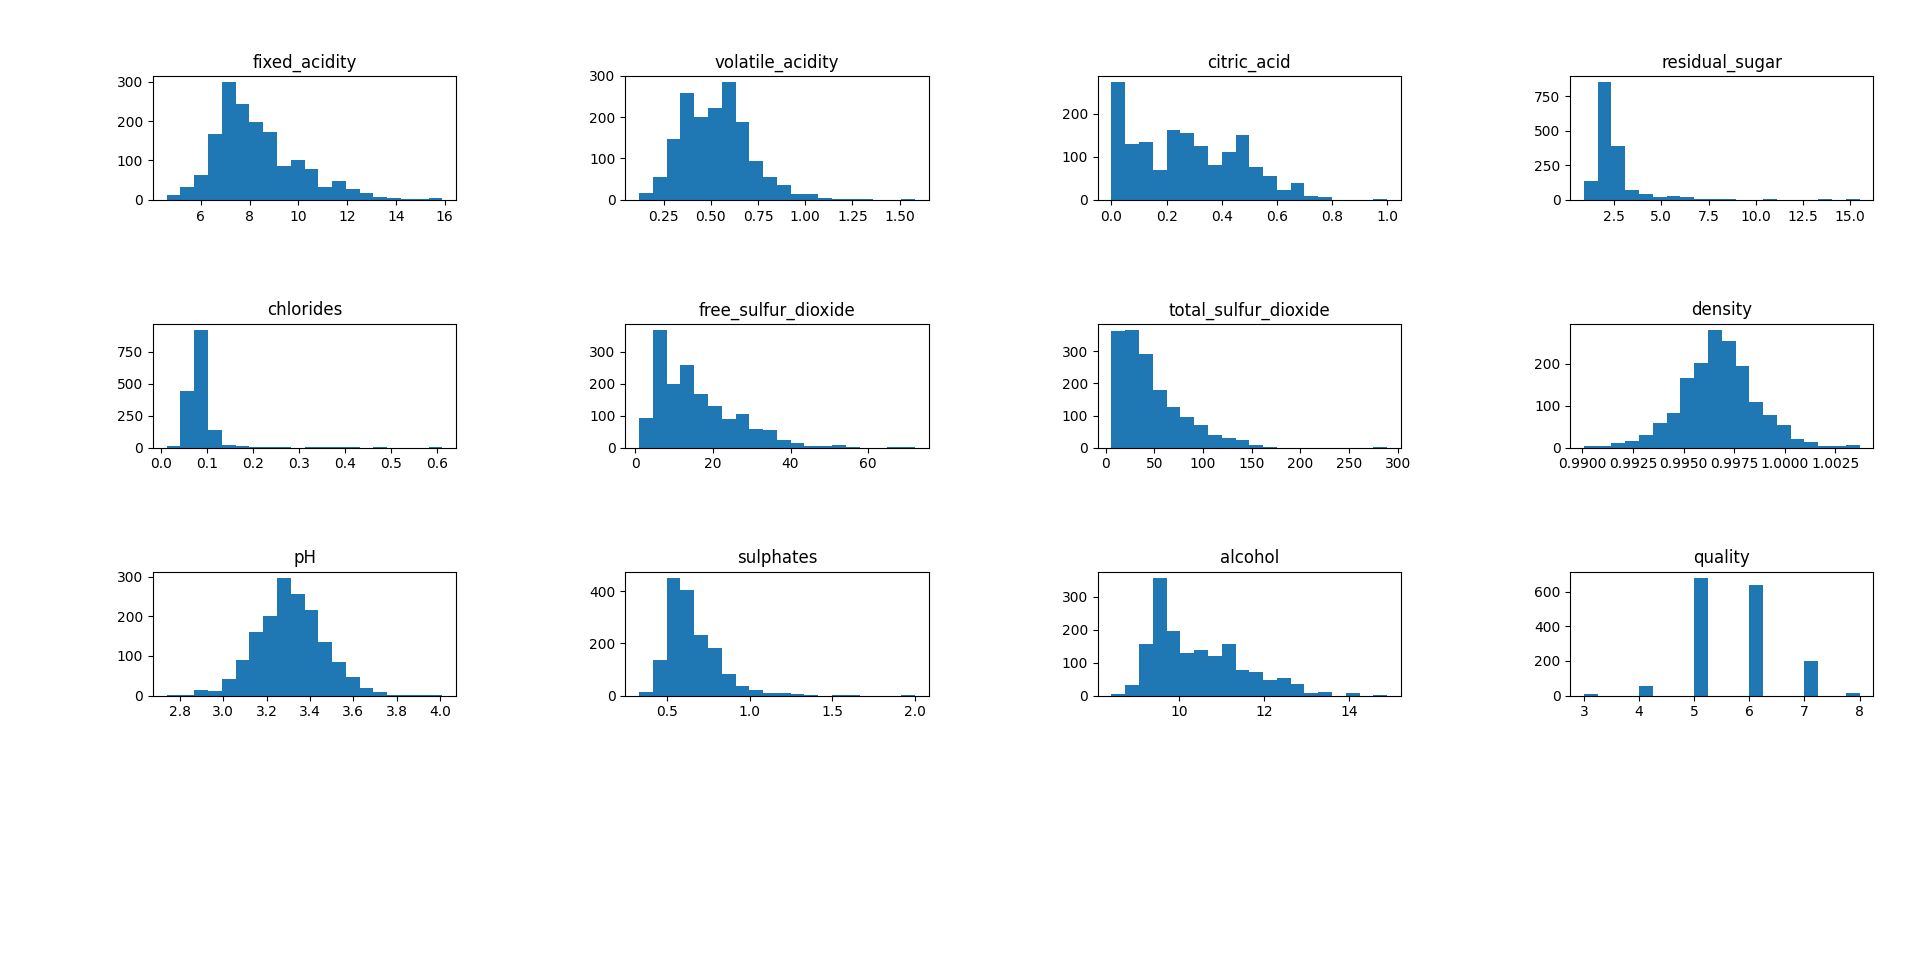
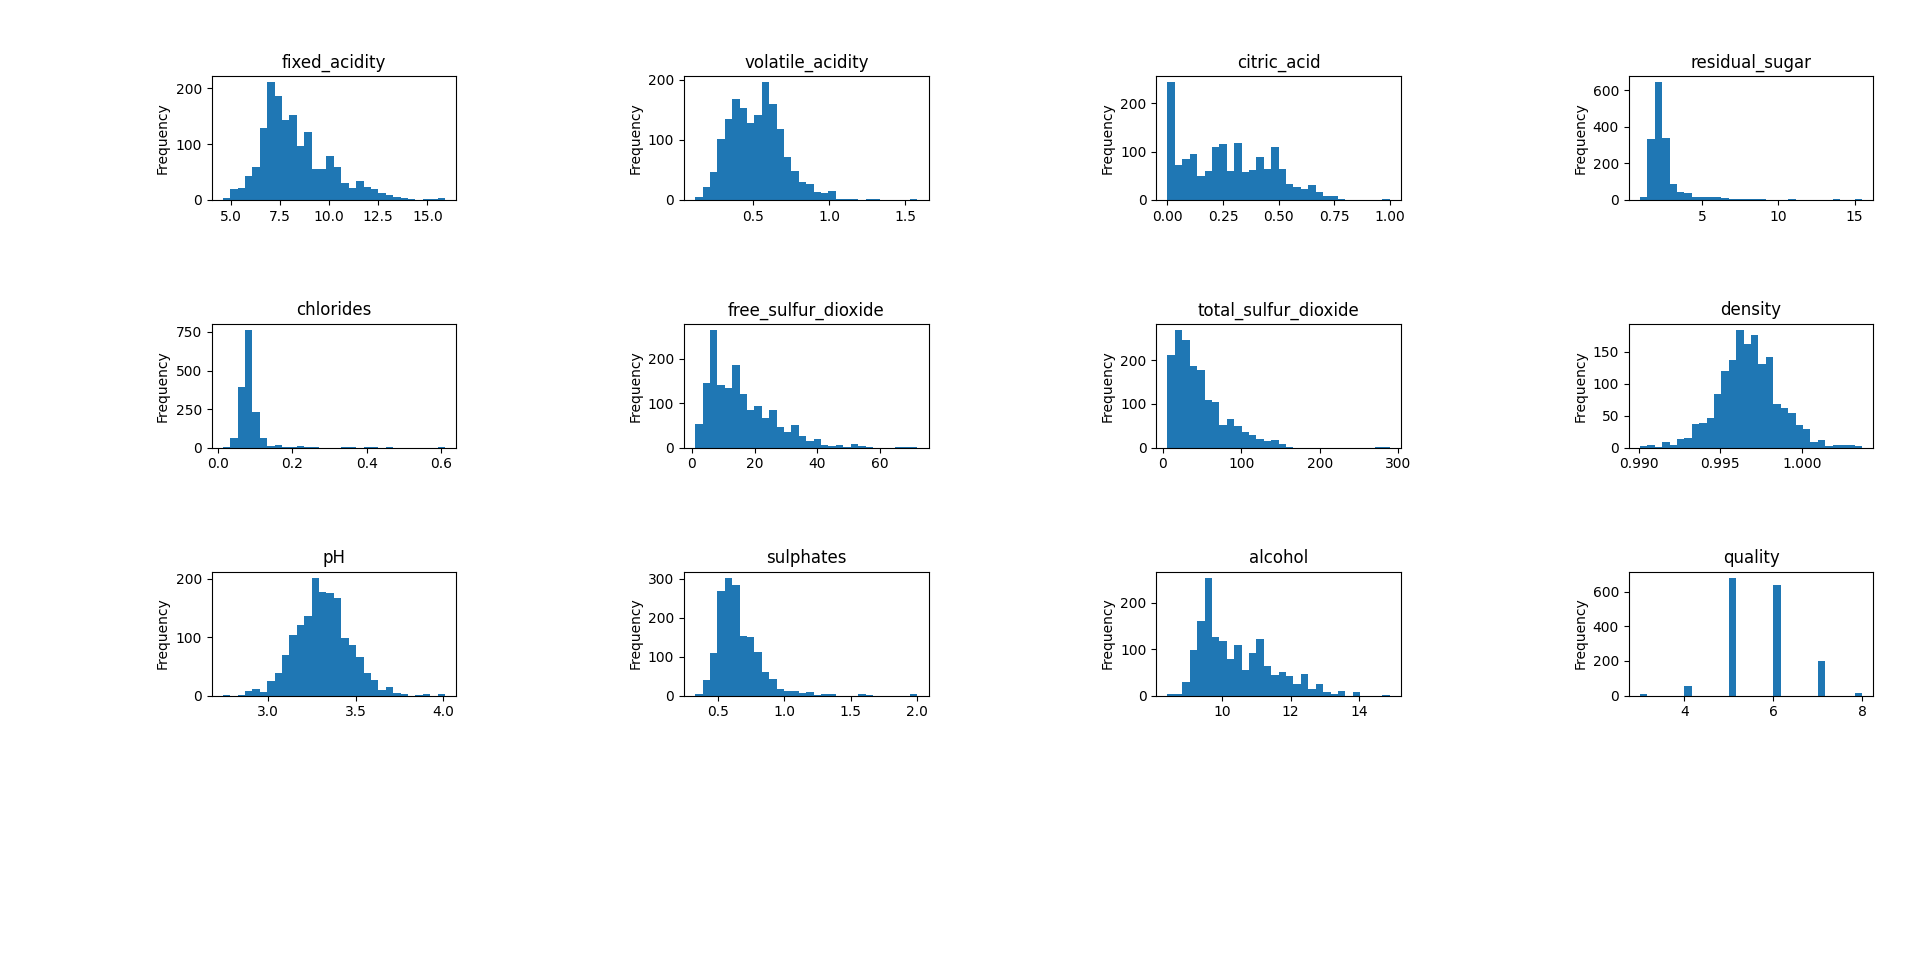
Data Correlation Reorganized main New Plot Index Column in load_raw_data

diff --git a/src/main.py b/src/main.py
@@ -1,5 +1,5 @@
-import random
 import copy
+import random
 
 from pandas import DataFrame
 from sklearn.cluster import DBSCAN, KMeans
@@ -8,21 +8,19 @@ from sklearn.neural_network import MLPClassifier
 from sklearn.tree import DecisionTreeClassifier
 
 from src.algorithms.supervised.DecisionTreeClass import DecisionTreeClass
+from src.algorithms.supervised.KNNClass import KNNClass
 from src.algorithms.supervised.MultiLayerPercetronClass import MultiLayerPercetronClass
 from src.algorithms.unsupervised.AgglomerativeHierarchicalClusteringClass import \
     AgglomerativeHierarchicalClusteringClass
 from src.algorithms.unsupervised.DBScanClass import DBScanClass
 from src.algorithms.unsupervised.KMeansClass import KMeansClass
 from src.constants.Constants import RED_CSV, WHITE_CSV, MIN_MAX, CATEGORIES
-from src.algorithms.supervised.KNNClass import KNNClass
 from src.dataTreatment.DataDiscretization import discretize
 from src.dataTreatment.DataNormalization import normalize_set_log, normalize_set_range, normalize_set_mean
+from src.helper.Correlation import correlate
 from src.loader import CsvLoader
 from src.models.WineSet import WineSet
-from src.plotting.WinePlot import plot_hist_wine_set
-
-algo = False
-plot = True
+from src.plotting.WinePlot import plot_hist_wine_set, plot_wine_set
 
 
 def run_algos(wine_set: WineSet):
@@ -39,48 +37,60 @@ def run_algos(wine_set: WineSet):
 
 # endregion
 
+def plot_raw_dataset():
+    wine_set_red: WineSet = CsvLoader.load_dataframe('%s' % RED_CSV)
+    wine_set_white: WineSet = CsvLoader.load_dataframe('%s' % WHITE_CSV)
+    plot_hist_wine_set(wine_set_red, "wine_set_red", bins=30)
+    plot_hist_wine_set(wine_set_white, "wine_set_white", bins=30)
+
 
 def normalize_set_plot(wine_set: WineSet, min_max_values: DataFrame, title: str):
     wine_set_log = copy.deepcopy(wine_set)
     wine_set_range = copy.deepcopy(wine_set)
     wine_set_mean = copy.deepcopy(wine_set)
-    plot_hist_wine_set(wine_set=wine_set, plt_figure_name=title, bins=20)
 
     normalize_set_log(wine_set=wine_set_log)
     print("wine_set_log\n", wine_set_log.wine_dataframe.head())
     plot_hist_wine_set(wine_set=wine_set_log, plt_figure_name=title + "-log", bins=20)
 
-    normalize_set_range(wine_set=wine_set_range, range=min_max_values)
+    normalize_set_range(wine_set=wine_set_range, range_dataframe=min_max_values, set_name="red")
     print("wine_set_range\n", wine_set_range.wine_dataframe.head())
-    plot_hist_wine_set(wine_set=wine_set_range, plt_figure_name=title + "-range",bins=30)
+    plot_hist_wine_set(wine_set=wine_set_range, plt_figure_name=title + "-range", bins=30)
 
     normalize_set_mean(wine_set=wine_set_mean)
     print("wine_set_mean\n", wine_set_mean.wine_dataframe.head())
-    plot_hist_wine_set(wine_set=wine_set_mean, plt_figure_name=title + "-mean",bins=30)
+    plot_hist_wine_set(wine_set=wine_set_mean, plt_figure_name=title + "-mean", bins=30)
 
 
 def main():
-    random.seed(1)
+    algo = False
+    plot_bool = True
+    normalize_and_plot_bool = True
+    discretize_and_plot_bool = True
+    correlate_bool = True
 
-    min_max_values = CsvLoader.load_raw_dataframe('%s' % MIN_MAX)
+    random.seed(1)
+    min_max_values = CsvLoader.load_raw_dataframe('%s' % MIN_MAX, index_col=0)
     categories = CsvLoader.load_raw_dataframe('%s' % CATEGORIES)
 
     print(min_max_values.head())
     print(categories.head())
-    # wine_set_red: WineSet = CsvLoader.load_List('%s' % RED_CSV, skip_header=True)
     wine_set_red: WineSet = CsvLoader.load_dataframe('%s' % RED_CSV)
     wine_set_white: WineSet = CsvLoader.load_dataframe('%s' % WHITE_CSV)
-    # plot_wine_set(wine_set_white,"wine_set_white")
 
-    # print(wine_set_red.wine_dataframe.head)
-    # print("len=", len(wine_set_red))
     # random_removal_mean(dataset=wine_set_red, removal_percentage=0.1)
+    if correlate_bool:
+        correlate(wine_set_red)
 
-    normalize_set_plot(wine_set=wine_set_red, min_max_values=min_max_values, title="wine_set_red")
+    if plot_bool:
+        plot_wine_set(wine_set_red, plt_figure_name="wine_set_red_plot")
+        plot_raw_dataset()
 
-    # plot_wine_set(wine_set_red, "wine_set_red")
-    # wine_set_red = discretize(wine_set=wine_set_red, categories=categories, num_bins=5)
-    # plot_wine_set(wine_set_red, "wine_set_red-qcut")
+    if normalize_and_plot_bool:
+        normalize_set_plot(wine_set=wine_set_red, min_max_values=min_max_values, title="wine_set_red")
+
+    if discretize_and_plot_bool:
+        wine_set_red = discretize(wine_set=wine_set_red, categories=categories, num_bins=5)
 
     if algo:
         run_algos(wine_set=wine_set_red)

diff --git a/src/dataTreatment/DataNormalization.py b/src/dataTreatment/DataNormalization.py
@@ -9,7 +9,7 @@ from src.models.WineSet import WineSet
 
 
 def normalize_set_log(wine_set: WineSet):
-    def _log_item(item: float, collumn_name: str) -> float:
+    def _log_item(item: float, column_name: str) -> float:
         if item <= 0:
             item = 0.01
         log = math.log(item)
@@ -18,13 +18,13 @@ def normalize_set_log(wine_set: WineSet):
     _normalize(wine_set=wine_set, normalizing_operation=_log_item)
 
 
-def normalize_set_range(wine_set: WineSet, range: DataFrame):
-    def _range_item(item: float, collumn_name: str) -> float:
-        min_column: str = collumn_name + "_min"
-        max_column: str = collumn_name + "_max"
+def normalize_set_range(wine_set: WineSet, range_dataframe: DataFrame, set_name: str):
+    def _range_item(item: float, column_name: str) -> float:
+        min_column: str = column_name + "_min"
+        max_column: str = column_name + "_max"
 
-        min_value: float = range.loc[0, min_column]
-        max_value: float = range.loc[0, max_column]
+        min_value: float = range_dataframe.loc[set_name, min_column]
+        max_value: float = range_dataframe.loc[set_name, max_column]
         if item > max_value:
             item = max_value
         elif item < min_value:
@@ -62,5 +62,5 @@ def _normalize(wine_set: WineSet, normalizing_operation: Callable):
             original_value = dataframe.loc[row_index, column_name]
 
             dataframe.loc[row_index, column_name] = normalizing_operation(item=original_value,
-                                                                          collumn_name=column_name)
+                                                                          column_name=column_name)
     wine_set.rebuild_from_dataframe()

diff --git a/src/constants/Constants.py b/src/constants/Constants.py
@@ -1,7 +1,10 @@
 import os
 
+RESOURCES = 'Resources'
+
 PROJECT_ROOT = os.path.split(__file__)[0]+"/../../"
-RED_CSV = PROJECT_ROOT +'Resources/winequality-red.csv'
-WHITE_CSV = PROJECT_ROOT +'Resources/winequality-white.csv'
-MIN_MAX = PROJECT_ROOT +'Resources/winequality-minMax.csv'
-CATEGORIES = PROJECT_ROOT +'Resources/categories.csv'
+RED_CSV = PROJECT_ROOT + RESOURCES + '/winequality-red.csv'
+WHITE_CSV = PROJECT_ROOT + RESOURCES + '/winequality-white.csv'
+MIN_MAX = PROJECT_ROOT + RESOURCES + '/winequality-minMax.csv'
+CATEGORIES = PROJECT_ROOT + RESOURCES + '/categories.csv'
+CORRELATIONS = PROJECT_ROOT + RESOURCES + '/correlations.csv'

diff --git a/src/loader/CsvLoader.py b/src/loader/CsvLoader.py
@@ -12,13 +12,13 @@ from src.models.Wine import Wine
 from src.models.WineSet import WineSet
 
 
-def load_raw_dataframe(filename: str):
-    return pandas.read_csv(filename, sep=";")
+def load_raw_dataframe(filename: str, index_col=False):
+    return pandas.read_csv(filename, sep=";", index_col=index_col)
 
 
 def load_dataframe(filename: str) -> WineSet:
     file_df: Union[Union[TextFileReader, Series, DataFrame, None, NDFrame], Any] = load_raw_dataframe(filename=filename)
-    #file_df[Wine.HEADERS] = file_df[Wine.HEADERS].astype(float)
+    # file_df[Wine.HEADERS] = file_df[Wine.HEADERS].astype(float)
     return WineSet(file_df)
 
 

diff --git a/src/plotting/WinePlot.py b/src/plotting/WinePlot.py
@@ -24,11 +24,8 @@ def plot_wine_set(wine_set: WineSet, plt_figure_name: str):
     row_count = int(Wine.N_VARIABLES ** 0.5) + 1
     fig = plt.gcf()
     fig.canvas.set_window_title(plt_figure_name)
+    wine_set.wine_dataframe.plot()
 
-    for header_index, header_string in enumerate(Wine.HEADERS):
-        plt.subplot(row_count, row_count, header_index + 1)
-        plt.title(header_string)
-        plt.hist(wine_set.wine_dataframe.loc[:, header_string], bins=20)
 
     plt.tight_layout()
     plt.show()

diff --git a/src/helper/Correlation.py b/src/helper/Correlation.py
@@ -1,0 +1,11 @@
+import pandas
+
+from src.constants.Constants import CORRELATIONS
+from src.models.WineSet import WineSet
+
+
+def correlate(wine_set: WineSet):
+    dataframe = wine_set.wine_dataframe
+    corr_dataframe = dataframe.corr(method="kendall")
+    corr_dataframe.to_csv(path_or_buf=CORRELATIONS, sep=";")
+    print(corr_dataframe)
